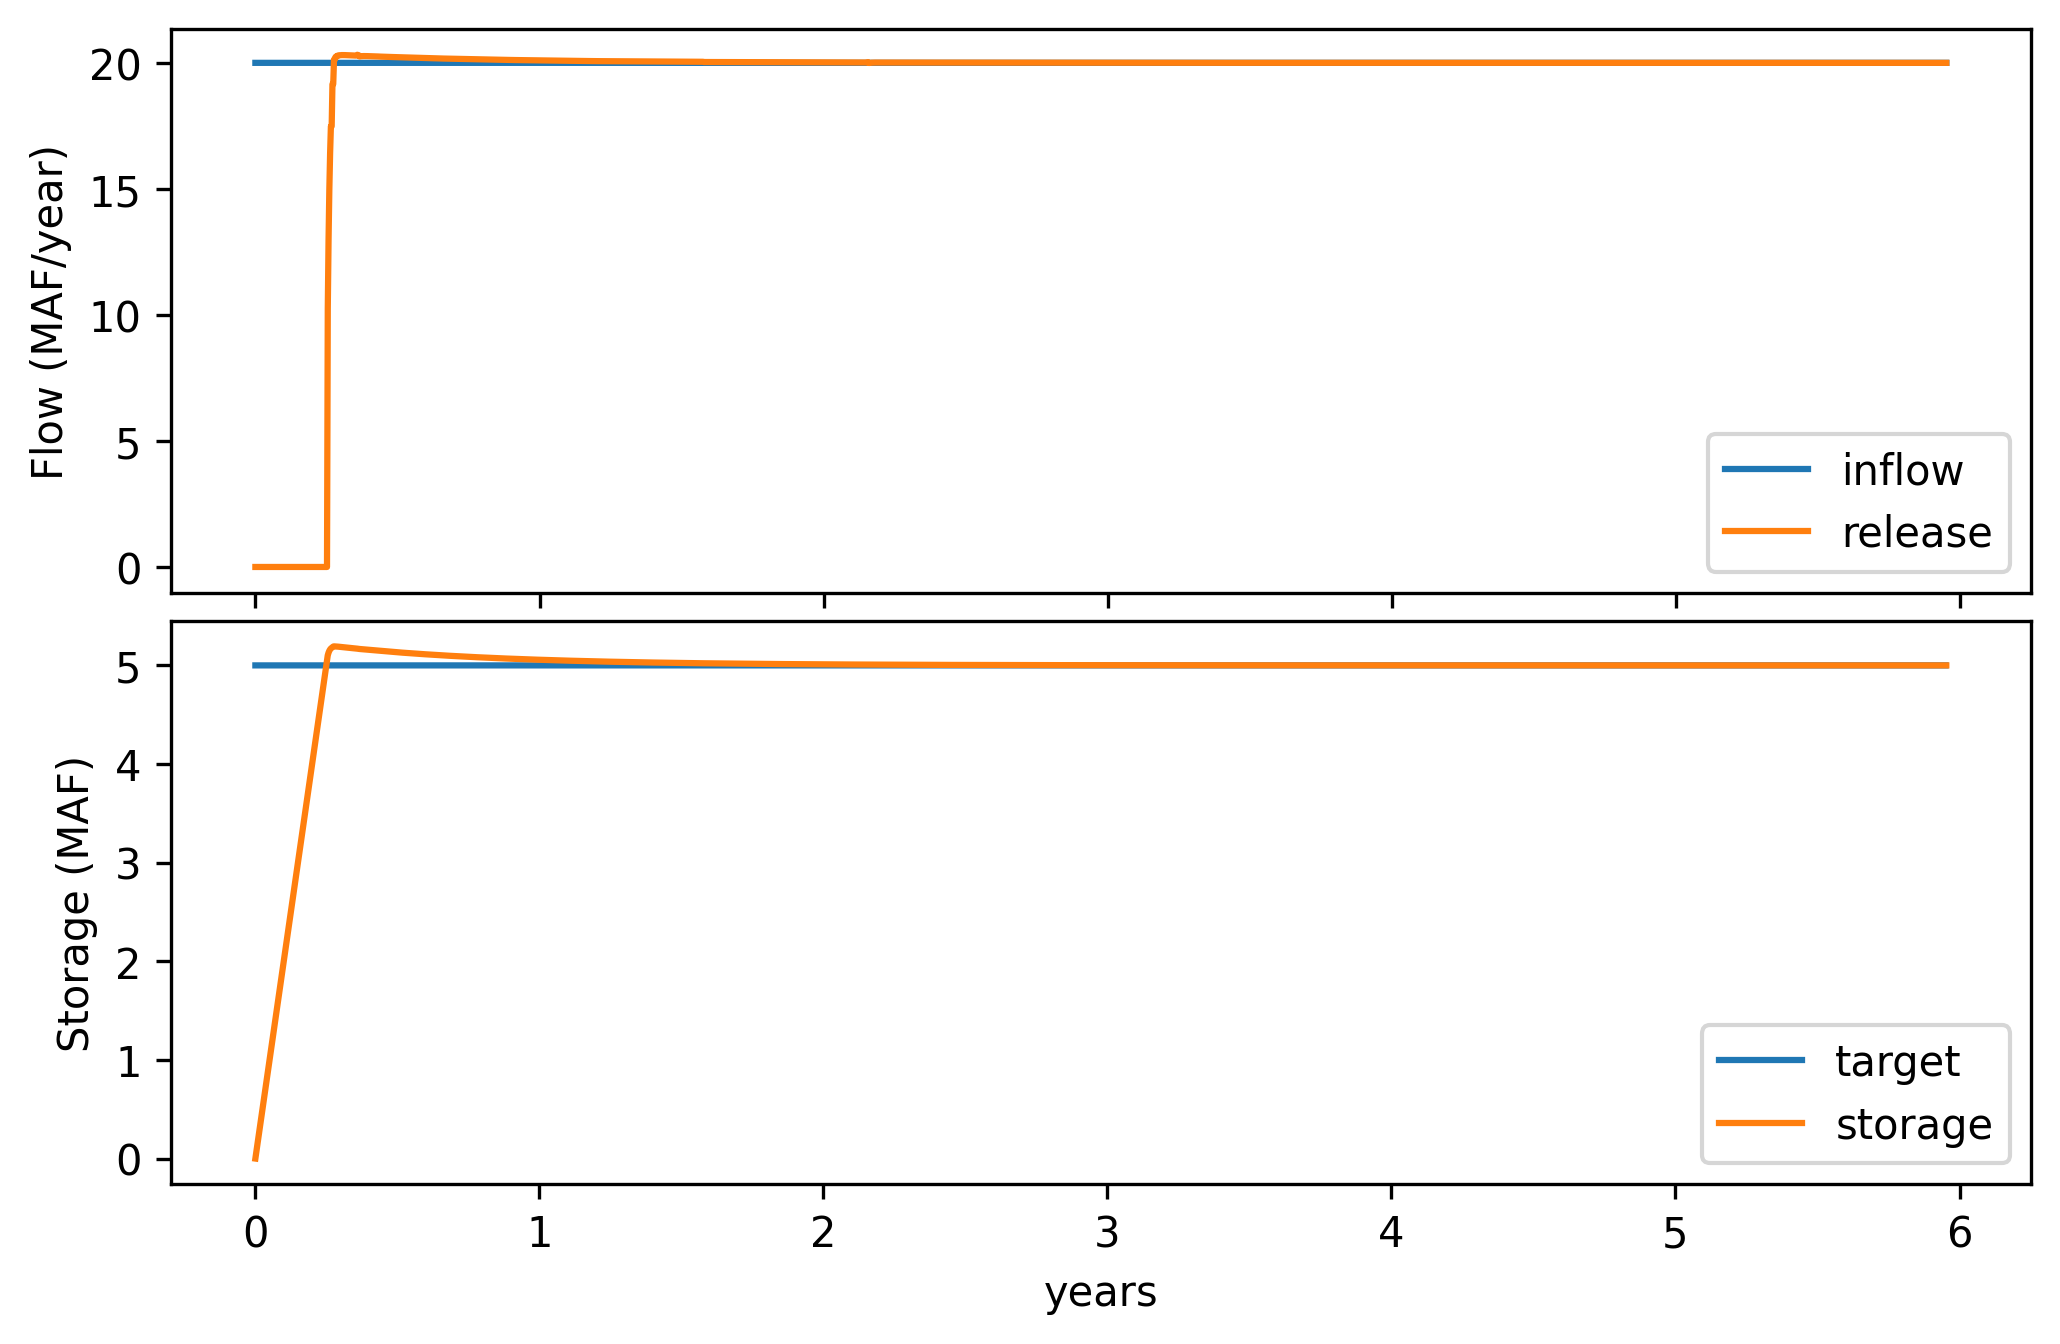
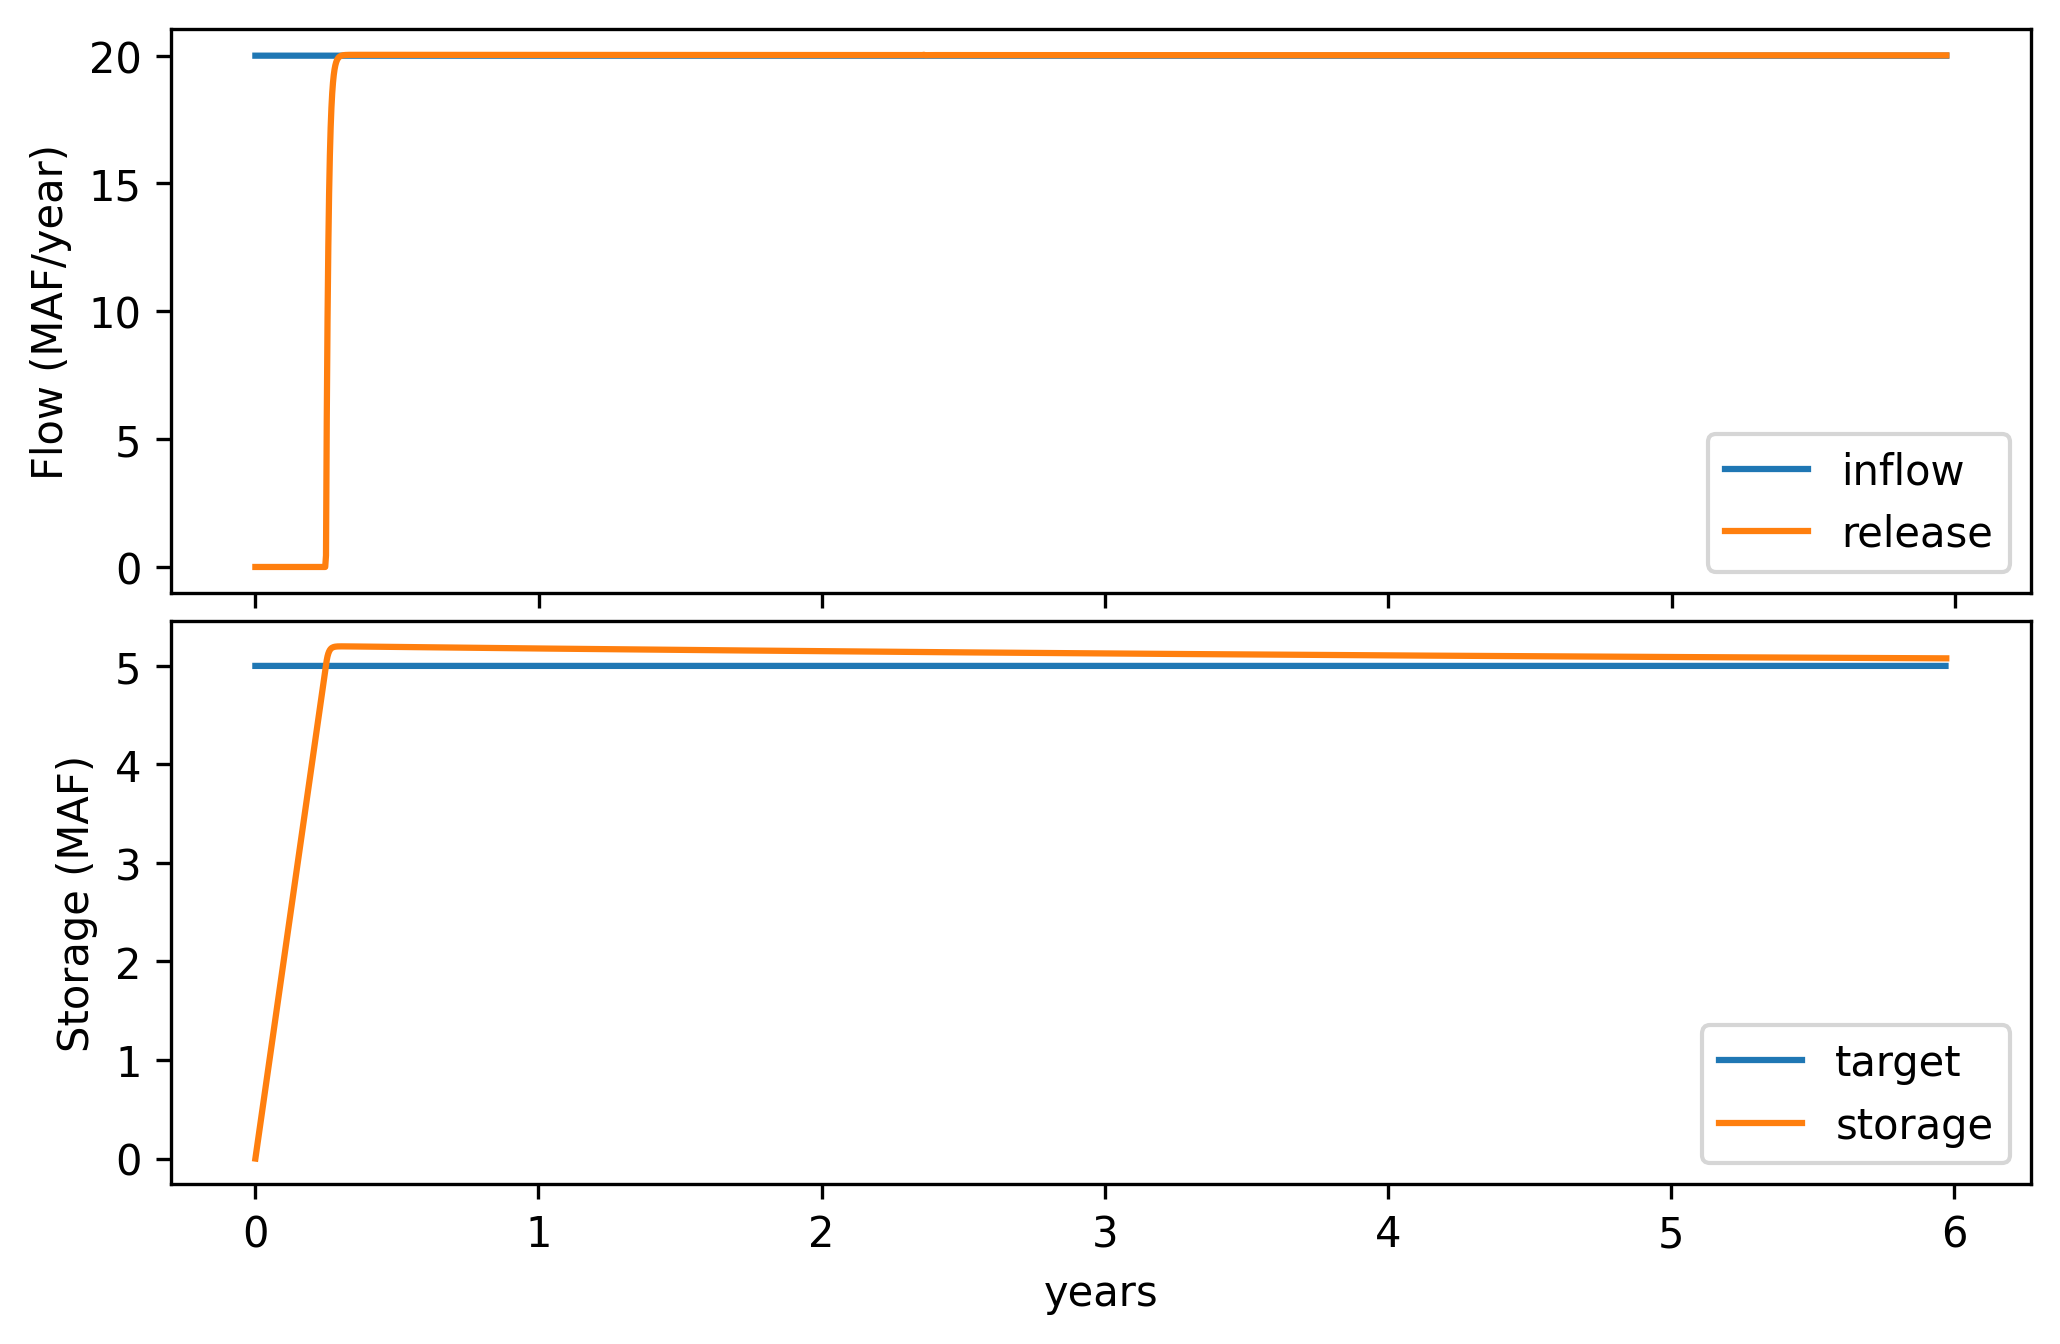
update params

diff --git a/Reservoir_PID.py b/Reservoir_PID.py
@@ -6,7 +6,7 @@ from simple_pid import PID
 import time
 
 ### general parameters
-total_time = 1
+total_time = 0.1
 ny = 6
 sample_time = total_time / ny / 365   ### this is equivalent to daily update of controller
 
@@ -32,12 +32,14 @@ target_sin_amp = 2
 target_sin_period = total_time / ny
 
 ### PID controller parameters
+# PID_params = -np.array([0, 0, 0]) ## no control
 # PID_params = -np.array([10, 100, 0]) ## good for constant inflow, slow approach
-# PID_params = -np.array([100, 1000, 0]) ## good for constant inflow, fast approach
-# PID_params = -np.array([100, 1000, 0])  ## good for sinusoidal inflow
-# PID_params = -np.array([100, 1000, 0])  ## good for sinusoidal inflow & set point
-# PID_params = -np.array([100, 1000, 0])  ## good for sinusoidal inflow & set point, gauss noise
-PID_params = -np.array([100, 1000, 0])  ## good for sinusoidal inflow & set point, gauss + jump noise
+# PID_params = -np.array([100, 5000, 0]) ## good for constant inflow, fast approach
+# PID_params = -np.array([100, 5000, 0])  ## good for sinusoidal inflow
+# PID_params = -np.array([100, 5000, 0])  ## good for sinusoidal inflow & set point
+# PID_params = -np.array([100, 5000, 0])  ## good for sinusoidal inflow & set point, gauss noise
+# PID_params = -np.array([300, 5000, 0])  ## good for sinusoidal inflow & set point, gauss + jump noise
+PID_params = -np.array([20, 500, 0])  ## lower variability policy for sinusoidal inflow & set point, gauss + jump noise
 
 
 
@@ -106,7 +108,7 @@ class Reservoir_PID:
             self.release = release_target + self.storage / dt
             self.storage = 0
         elif self.storage > max_storage:
-            self.release = release_target + (self.storage - max_storage)
+            self.release = release_target + (self.storage - max_storage) / dt
             self.storage = max_storage
         else:
             self.release = release_target
